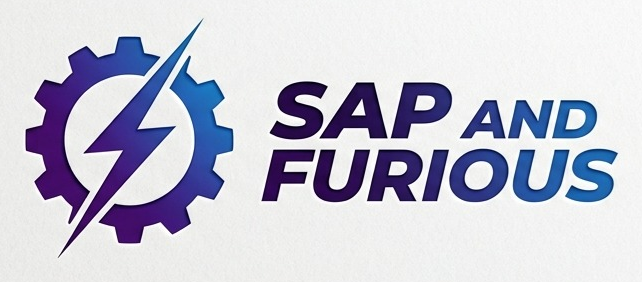
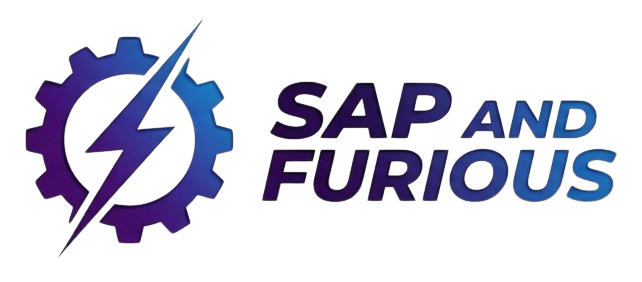
si

diff --git a/js/app.js b/js/app.js
@@ -39,12 +39,12 @@ const ERP = {
 
   // ── Catálogo de productos ──
   productos: [
-  { codigo: 'PROD-001', descripcion: '1 Caja de Tornillos M6x20 Hexagonal Zinc, 1000pz',  precio: 850.00, stock: 125, rop: 25 },
-  { codigo: 'PROD-002', descripcion: '1 Caja de Tuercas M6 DIN 934 Acero, 1000pz',         precio: 450.00, stock: 98,  rop: 18 },
-  { codigo: 'PROD-003', descripcion: '1 Caja de Rondanas Planas M6 Galvanizada, 1000pz',   precio: 300.00, stock: 152, rop: 16 },
-  { codigo: 'PROD-004', descripcion: '1 Caja de Pernos 1/2" x 2" Grado 5, 200pz',         precio: 640.00, stock: 45,  rop: 12 },
-  { codigo: 'PROD-005', descripcion: '1 Caja de Clavos 2.5" x 9, 15 Cajas de 1kg',        precio: 720.00, stock: 30,  rop: 10 },
-  { codigo: 'PROD-006', descripcion: '1 Caja de Remaches Pop 3/16" x 1/2", 800pz',        precio: 480.00, stock: 45,  rop: 9  },
+  { codigo: 'PROD-001', descripcion: '1 Caja de Tornillos M6x20 Hexagonal Zinc, 1000pz',  precio: 850.00, stock: 125, rop: 100 },
+  { codigo: 'PROD-002', descripcion: '1 Caja de Tuercas M6 DIN 934 Acero, 1000pz',         precio: 450.00, stock: 98,  rop: 100 },
+  { codigo: 'PROD-003', descripcion: '1 Caja de Rondanas Planas M6 Galvanizada, 1000pz',   precio: 300.00, stock: 152, rop: 100 },
+  { codigo: 'PROD-004', descripcion: '1 Caja de Pernos 1/2" x 2" Grado 5, 200pz',         precio: 640.00, stock: 45,  rop: 100 },
+  { codigo: 'PROD-005', descripcion: '1 Caja de Clavos 2.5" x 9, 15 Cajas de 1kg',        precio: 720.00, stock: 30,  rop: 100 },
+  { codigo: 'PROD-006', descripcion: '1 Caja de Remaches Pop 3/16" x 1/2", 800pz',        precio: 480.00, stock: 45,  rop: 100 },
 ],
 
   // ── Pedidos ──
@@ -874,6 +874,11 @@ function confirmarValidacionCredito() {
 
 /* MÓDULO: CONSULTA DE STOCK */
 
+/* ── Constantes de negocio ── */
+const MAX_STOCK_TOTAL   = 1200;  // cajas máximas en inventario total
+const MAX_STOCK_PROD    = 300;   // cajas máximas por producto
+const MIN_ORDEN_PROD    = 10;    // mínimo de cajas faltantes para lanzar orden de producción
+
 function consultarStock() {
   if (!ERP.pedidoActivo) return;
 
@@ -882,16 +887,26 @@ function consultarStock() {
 
   tbody.innerHTML = '';
 
+  // Calcular stock total actual (suma de todos los productos)
+  const stockTotalActual = ERP.productos.reduce((s, p) => s + (p.stock || 0), 0);
+
+  let todosuficiente = true;
+
   ERP.pedidoActivo.productos.forEach(p => {
     const prod = ERP.productos.find(x => x.codigo === p.codigo);
     const existencia = prod ? prod.stock : 0;
     const suficiente = existencia >= p.cantidad;
+    if (!suficiente) todosuficiente = false;
+
+    // Advertencia si el stock del producto supera el máximo permitido
+    const sobreCapacidad = existencia > MAX_STOCK_PROD;
+
     const tr = document.createElement('tr');
     tr.innerHTML = `
       <td>${p.codigo}</td>
       <td>${p.descripcion}</td>
       <td>${p.cantidad.toLocaleString()}</td>
-      <td>${existencia.toLocaleString()}</td>
+      <td style="${sobreCapacidad ? 'color:var(--danger);font-weight:700' : ''}">${existencia.toLocaleString()}${sobreCapacidad ? ' ⚠' : ''}</td>
       <td>${suficiente
         ? '<span class="badge badge-activo">Sí</span>'
         : '<span class="badge badge-bloqueado">No</span>'}</td>
@@ -902,8 +917,35 @@ function consultarStock() {
   const seccion = document.getElementById('seccion-stock');
   if (seccion) { seccion.style.display = ''; seccion.classList.add('fade-in'); }
 
+  // Mostrar alerta de capacidad total si aplica
+  const alertaCapacidad = document.getElementById('alerta-capacidad-stock');
+  if (alertaCapacidad) {
+    if (stockTotalActual > MAX_STOCK_TOTAL) {
+      alertaCapacidad.style.display = '';
+      alertaCapacidad.innerHTML = `⚠️ <strong>Capacidad excedida:</strong> El inventario total es de ${stockTotalActual} cajas (máximo ${MAX_STOCK_TOTAL}).`;
+    } else {
+      alertaCapacidad.style.display = 'none';
+    }
+  }
+
+  // Verificar si hay productos que necesitan orden de producción (déficit ≥ MIN_ORDEN_PROD por producto)
+  const productosNecesitanOrden = ERP.pedidoActivo.productos.some(p => {
+    const prod = ERP.productos.find(x => x.codigo === p.codigo);
+    const existencia = prod ? prod.stock : 0;
+    const deficit = p.cantidad - existencia;
+    return deficit >= MIN_ORDEN_PROD;
+  });
+
+  // Habilitar "Confirmar Pedido" solo si no hay productos que requieran orden mínima de producción
   const btnConfirmar = document.getElementById('btn-confirmar-pedido');
-  if (btnConfirmar) btnConfirmar.disabled = false;
+  if (btnConfirmar) {
+    if (productosNecesitanOrden) {
+      btnConfirmar.disabled = true;
+      mostrarToast('Hay productos con déficit ≥ 10 cajas. Genera una orden de producción antes de confirmar.', 'warning');
+    } else {
+      btnConfirmar.disabled = false;
+    }
+  }
 }
 
 function confirmarPedido() {
@@ -935,6 +977,15 @@ function empaquetar() {
     const pedido = ERP.pedidos[idx];
     // Solo restar stock si aún no está empaquetado (evitar doble descuento)
     if (pedido.estado !== 'Empaquetado') {
+      // Validar que ningún producto supere 300 cajas después del descuento
+      // (el descuento reduce stock, así que este chequeo es preventivo para casos futuros)
+      // Validar que el stock total no supere 1200 cajas
+      const stockTotalActual = ERP.productos.reduce((s, p) => s + (p.stock || 0), 0);
+      if (stockTotalActual > MAX_STOCK_TOTAL) {
+        mostrarToast(`El inventario total (${stockTotalActual} cajas) supera la capacidad máxima de ${MAX_STOCK_TOTAL}. Genera órdenes de producción para regularizar.`, 'warning');
+        return;
+      }
+
       pedido.productos.forEach(linea => {
         const prod = ERP.productos.find(p => p.codigo === linea.codigo);
         if (prod) {

diff --git a/js/components.js b/js/components.js
@@ -75,17 +75,6 @@ const SHARED_LAYOUT = `
         </a>
       </li>
       <li>
-        <a href="#" onclick="solicitarStockMasivo(); return false;" id="nav-orden-produccion">
-          <svg class="nav-icon" viewBox="0 0 24 24" fill="none" stroke="currentColor" stroke-width="2">
-            <path d="M12 2L2 7l10 5 10-5-10-5z"/>
-            <path d="M2 17l10 5 10-5"/>
-            <path d="M2 12l10 5 10-5"/>
-          </svg>
-          Orden de Producción
-          <span class="sidebar-badge sidebar-badge-warning" id="badge-reorden" style="display:none">0</span>
-        </a>
-      </li>
-      <li>
         <a href="credito.html">
           <svg class="nav-icon" viewBox="0 0 24 24" fill="none" stroke="currentColor" stroke-width="2">
             <rect x="1" y="4" width="22" height="16" rx="2" ry="2"/>
@@ -104,6 +93,29 @@ const SHARED_LAYOUT = `
             <polyline points="10 9 9 9 8 9"/>
           </svg>
           Facturación
+        </a>
+      </li>
+      <li>
+        <a href="https://tilvalhallaproject.com/apps/track?srsltid=AfmBOooWLVivD2JG4ZnQOjJrKvH2jvq4xsZIm8S9zJg3i3pvUTpZ84jO">
+          <svg class="nav-icon" viewBox="0 0 24 24" fill="none" stroke="currentColor" stroke-width="2">
+            <rect x="1" y="8" width="13" height="11" rx="1"/>
+            <path d="M14 10h4l3 3v5h-7V10z"/>
+            <circle cx="5.5" cy="19" r="1.5"/>
+            <circle cx="18.5" cy="19" r="1.5"/>
+            <line x1="1" y1="13" x2="14" y2="13"/>
+          </svg>
+          Tranportistas
+        </a>
+      </li>
+      <li>
+        <a href="#" onclick="solicitarStockMasivo(); return false;" id="nav-orden-produccion">
+          <svg class="nav-icon" viewBox="0 0 24 24" fill="none" stroke="currentColor" stroke-width="2">
+            <path d="M12 2L2 7l10 5 10-5-10-5z"/>
+            <path d="M2 17l10 5 10-5"/>
+            <path d="M2 12l10 5 10-5"/>
+          </svg>
+          Orden de Producción
+          <span class="sidebar-badge sidebar-badge-warning" id="badge-reorden" style="display:none">0</span>
         </a>
       </li>
     </ul>
@@ -595,7 +607,20 @@ const SHARED_LAYOUT = `
       const codigo = n.codigoProducto || (n.producto ? n.producto.split(' — ')[0].trim() : '');
       const prod = ERP.productos.find(p => p.codigo === codigo);
       if (prod) {
-        prod.stock = (prod.stock || 0) + (n.cantidad || 0);
+        const stockTotalActual = ERP.productos.reduce((s, p) => s + (p.stock || 0), 0);
+        const nuevoStockProd   = (prod.stock || 0) + (n.cantidad || 0);
+        const nuevoStockTotal  = stockTotalActual + (n.cantidad || 0);
+
+        if (nuevoStockProd > MAX_STOCK_PROD) {
+          mostrarToast(`⚠ No se puede agregar: ${prod.codigo} superaría el límite de ${MAX_STOCK_PROD} cajas por producto (tendría ${nuevoStockProd}).`, 'warning');
+          saveState(); actualizarBadgeReorden(); return;
+        }
+        if (nuevoStockTotal > MAX_STOCK_TOTAL) {
+          mostrarToast(`⚠ No se puede agregar: el inventario total superaría la capacidad de ${MAX_STOCK_TOTAL} cajas (quedaría en ${nuevoStockTotal}).`, 'warning');
+          saveState(); actualizarBadgeReorden(); return;
+        }
+
+        prod.stock = nuevoStockProd;
         saveState();
         actualizarBadgeReorden();
         mostrarToast(`✓ Stock de ${prod.codigo} actualizado (+${n.cantidad} uds)`, 'success');
@@ -695,8 +720,11 @@ const SHARED_LAYOUT = `
         .filter(n => !n.oculta && estadosActivos.includes(n.estado))
         .map(n => n.codigoProducto)
     );
+    // Solo contar productos que estén en ROP Y cuyo déficit sea >= MIN_ORDEN_PROD
     const sinOrden = ERP.productos.filter(p =>
-      p.stock <= p.rop && !productosConOrdenActiva.has(p.codigo)
+      p.stock <= p.rop &&
+      (p.rop - p.stock) >= MIN_ORDEN_PROD &&
+      !productosConOrdenActiva.has(p.codigo)
     ).length;
     badge.textContent = sinOrden;
     badge.style.display = sinOrden > 0 ? '' : 'none';
@@ -711,7 +739,9 @@ const SHARED_LAYOUT = `
         .map(n => n.codigoProducto)
     );
     const productosReorden = ERP.productos.filter(p =>
-      p.stock <= p.rop && !productosConOrdenActiva.has(p.codigo)
+      p.stock <= p.rop &&
+      (p.rop - p.stock) >= MIN_ORDEN_PROD &&
+      !productosConOrdenActiva.has(p.codigo)
     );
 
     if (productosReorden.length === 0) {

diff --git a/pedidos.html b/pedidos.html
@@ -3,7 +3,7 @@
 <head>
   <meta charset="UTF-8">
   <meta name="viewport" content="width=device-width, initial-scale=1.0">
-  <title>ERP Nexus — Pedidos</title>
+  <title>SAP & FURIOUS — Pedidos</title>
   <link rel="stylesheet" href="css/styles.css">
 </head>
 <body>
@@ -399,7 +399,7 @@
     }
   }
 
-  // Parchamos guardarPedido para incluir la validación de fecha
+  // Parchamos guardarPedido para incluir la validación de fecha y cliente activo
   const _guardarPedidoOrig = window.guardarPedido || guardarPedido;
   window.guardarPedido = function() {
     const fechaEnvInput = document.getElementById('ped-fecha-envio');
@@ -407,6 +407,15 @@
       fechaEnvInput.classList.add('is-invalid');
       mostrarToast('La Fecha de Envío Estimada no puede ser anterior a hoy', 'warning');
       return;
+    }
+    // Validar que el cliente esté activo
+    const clienteId = document.getElementById('ped-cliente')?.value;
+    if (clienteId) {
+      const cli = ERP.clientes.find(c => c.id === clienteId);
+      if (cli && cli.estado !== 'activo') {
+        mostrarToast(`El cliente "${cli.nombre}" no está Activo (estado: ${cli.estado}). Solo se pueden crear pedidos para clientes activos.`, 'warning');
+        return;
+      }
     }
     _guardarPedidoOrig();
   };
@@ -467,7 +476,7 @@
     if (!sel) return;
     const val = sel.value;
     sel.innerHTML = '<option value="">-- Seleccionar cliente --</option>';
-    ERP.clientes.forEach(c => {
+    ERP.clientes.filter(c => c.estado === 'activo').forEach(c => {
       const opt = document.createElement('option');
       opt.value = c.id;
       opt.textContent = `${c.id} — ${c.nombre}`;

diff --git a/credito.html b/credito.html
@@ -3,7 +3,7 @@
 <head>
   <meta charset="UTF-8">
   <meta name="viewport" content="width=device-width, initial-scale=1.0">
-  <title>ERP Nexus — Validación de Crédito</title>
+  <title>SAP & FURIOUS — Validación de Crédito</title>
   <link rel="stylesheet" href="css/styles.css">
 </head>
 <body>
@@ -311,6 +311,7 @@
               </tbody>
             </table>
           </div>
+          <div id="alerta-capacidad-stock" class="alert alert-warning" style="display:none; margin:12px 16px 4px"></div>
         </div>
 
         <div class="erp-card">

diff --git a/clientes.html b/clientes.html
@@ -3,7 +3,7 @@
 <head>
   <meta charset="UTF-8">
   <meta name="viewport" content="width=device-width, initial-scale=1.0">
-  <title>ERP Nexus — Clientes</title>
+  <title>SAP & FURIOUS — Clientes</title>
   <link rel="stylesheet" href="css/styles.css">
 </head>
 <body>

diff --git a/factura.html b/factura.html
@@ -3,7 +3,7 @@
 <head>
   <meta charset="UTF-8">
   <meta name="viewport" content="width=device-width, initial-scale=1.0">
-  <title>ERP Nexus — Facturación</title>
+  <title>SAP & FURIOUS — Facturación</title>
   <link rel="stylesheet" href="css/styles.css">
 </head>
 <body>

diff --git a/index.html b/index.html
@@ -3,7 +3,7 @@
 <head>
   <meta charset="UTF-8">
   <meta name="viewport" content="width=device-width, initial-scale=1.0">
-  <title>SAP Signavio — Dashboard</title>
+  <title>SAP & FURIOUS — Dashboard</title>
   <link rel="stylesheet" href="css/styles.css">
 </head>
 <body>